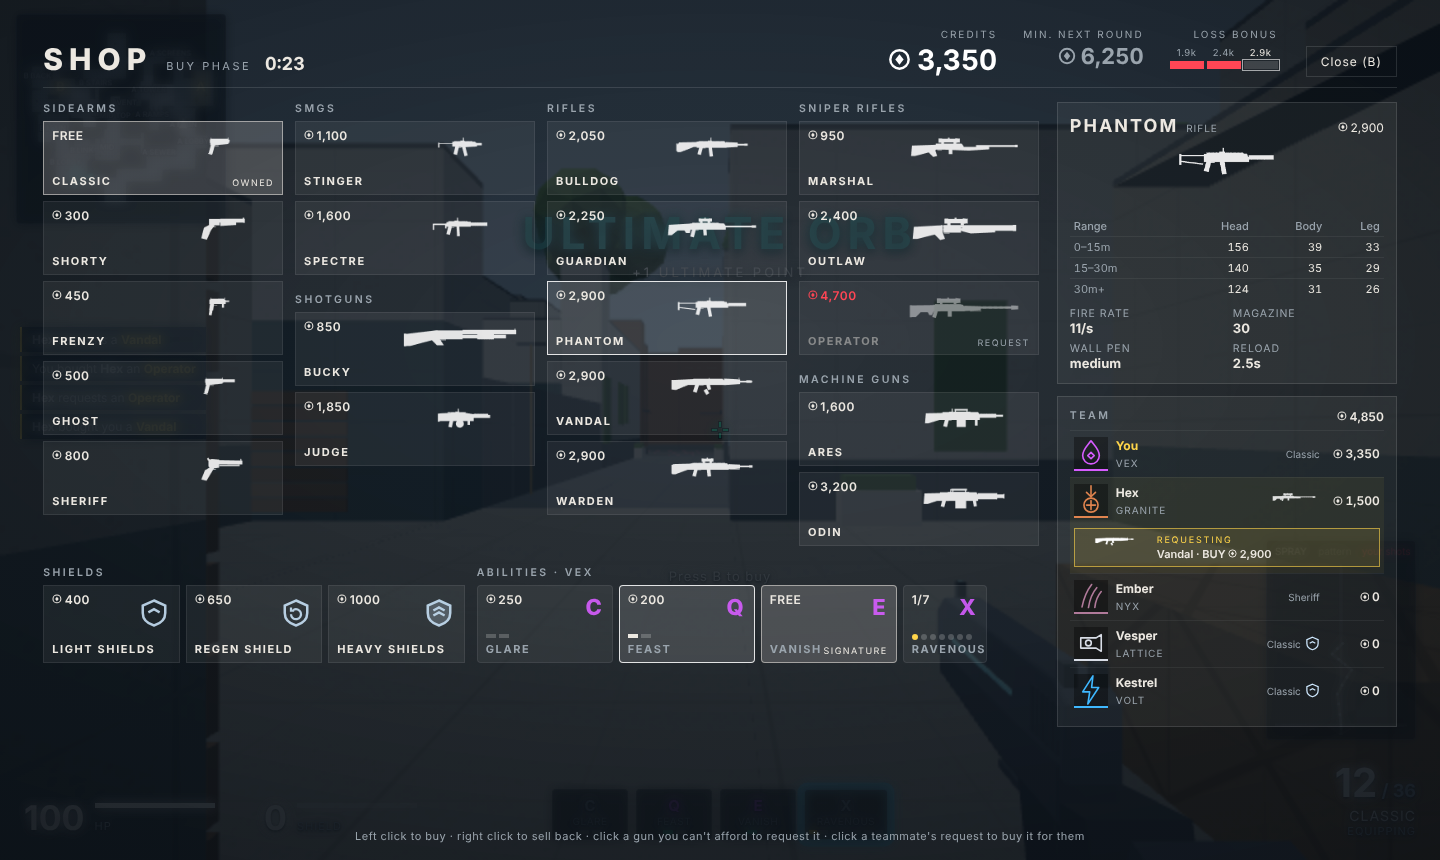
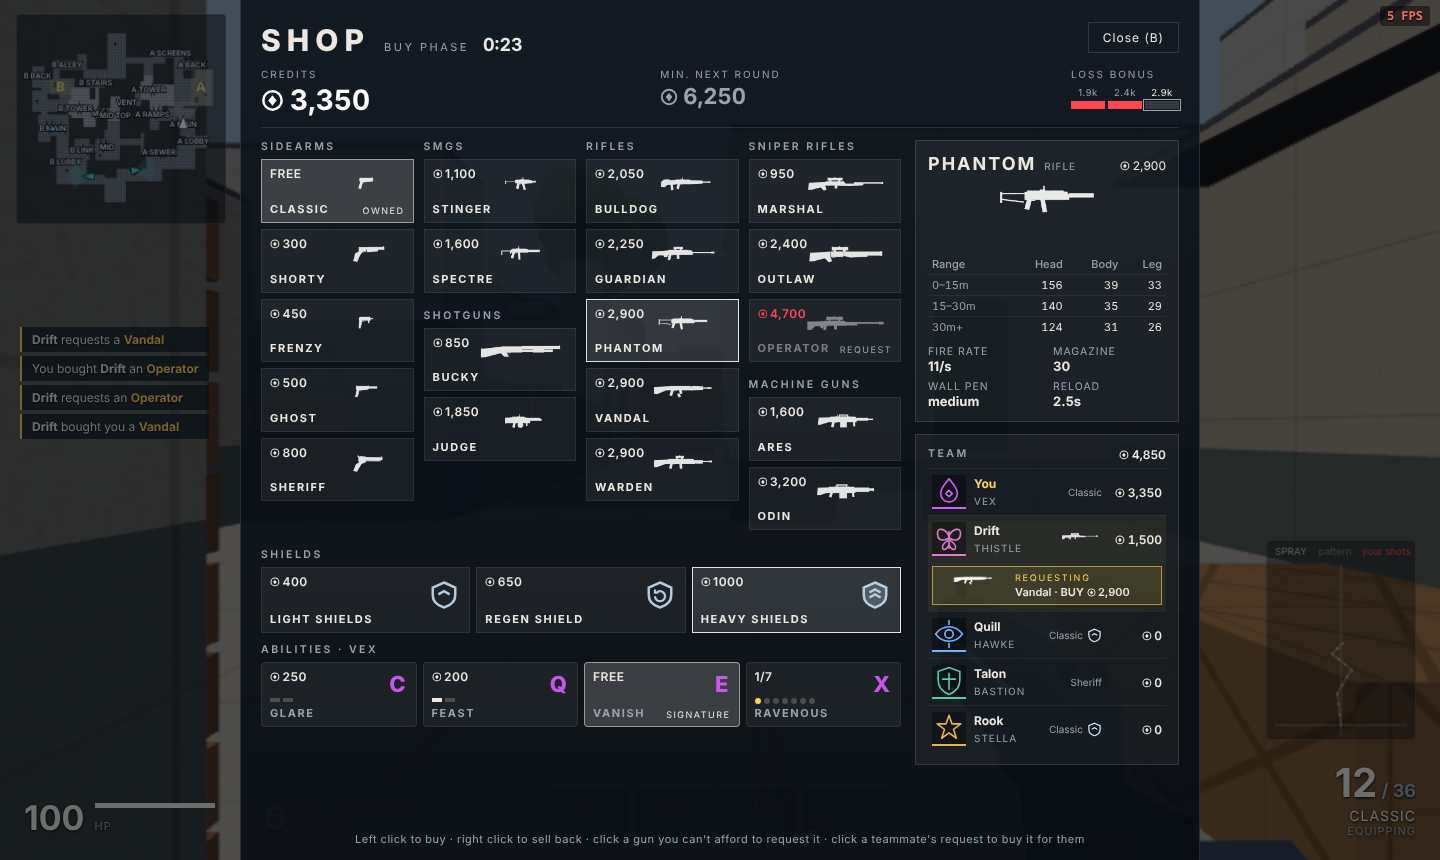
Speed up the buy menu and make it a tall column
The shop rebuilt every card (with inline data-URL gun pictures) once a second
to tick the clock, and again whenever any teammate's credits changed, and a
full-screen backdrop blur re-blurred the moving 3D view every frame.

- The clock is updated on its own; each part of the shop is only re-rendered
  when its markup changes, so a bot spending credits redraws just the team list.
- Gun pictures are short blob: URLs instead of long data: URLs.
- No backdrop blur: an opaque panel with a wide shadow dims the game instead.
- Layout: a 960px column down the middle, economy on its own row, shields and
  abilities stacked, a narrower team panel. Fixes the ultimate card being
  squeezed by the HUD's .ab.ult width.
- tools/profile-shop.mjs times the shop's per-frame work.

Claude-Session: https://claude.ai/code/session_012SZNW3m18LJA1uXUUE83U1

diff --git a/index.html b/index.html
@@ -222,16 +222,21 @@ th { color: var(--muted); font-weight: 500; }
 #rnotice b.rq { color: #ffd54a; }
 @keyframes rnin { from { opacity: 0; transform: translateX(-8px); } }
 #rhint { position: absolute; top: 66%; left: 50%; transform: translateX(-50%); font-size: 13px; letter-spacing: 1px; color: var(--text); text-shadow: 0 1px 3px #000; pointer-events: none; }
-/* Buy menu: Valorant's layout in the game's own look. */
-#shop { position: absolute; inset: 0; display: flex; flex-direction: column; gap: 14px; padding: 3.2vh 3vw 2vh; overflow: auto; pointer-events: auto;
-  background: radial-gradient(120% 90% at 50% 40%, rgba(15, 25, 35, 0.78), rgba(8, 13, 19, 0.94)); backdrop-filter: blur(6px); }
+/* Buy menu: Valorant's layout in the game's own look, as a tall column down the middle of the screen. No
+   backdrop blur: blurring the moving 3D view under the whole screen every frame is what made it lag. The
+   wide shadow dims the game on either side instead. */
+#shop { position: absolute; top: 0; bottom: 0; left: 50%; transform: translateX(-50%); width: min(960px, 100vw); box-sizing: border-box; display: flex; flex-direction: column; gap: 12px; padding: 2.6vh 20px 1.6vh; overflow: auto; pointer-events: auto;
+  background: linear-gradient(rgba(12, 19, 27, 0.95), rgba(8, 13, 19, 0.97)); box-shadow: 0 0 0 100vmax rgba(5, 8, 12, 0.55); border-left: 1px solid var(--line); border-right: 1px solid var(--line); }
 #shop .cr { width: .82em; height: .82em; margin-right: .22em; vertical-align: -0.06em; }
-.shop-top { display: flex; align-items: flex-end; gap: 28px; padding-bottom: 10px; border-bottom: 1px solid var(--line); }
+.shop-top { display: flex; flex-wrap: wrap; align-items: flex-end; gap: 10px 22px; padding-bottom: 10px; border-bottom: 1px solid var(--line); }
 .shop-title { display: flex; align-items: baseline; gap: 14px; flex: 1; }
+.shop-top > #shop-close { order: -1; align-self: flex-start; }
+.shop-top .shop-title { order: -2; }
 .shop-title h2 { margin: 0; font-size: 30px; letter-spacing: 6px; text-transform: uppercase; font-weight: 800; }
 #shop-phase { font-size: 11px; letter-spacing: 2.5px; color: var(--muted); }
 #shop-time { font-size: 18px; font-variant-numeric: tabular-nums; }
-.shop-econ { display: flex; gap: 26px; }
+.shop-econ { display: flex; gap: 26px; flex-basis: 100%; justify-content: space-between; }
+.shop-econ .econ { align-items: flex-start; }
 .econ { display: flex; flex-direction: column; align-items: flex-end; gap: 3px; }
 .econ small { font-size: 10px; letter-spacing: 2px; text-transform: uppercase; color: var(--muted); }
 .econ b { font-size: 22px; font-weight: 700; font-variant-numeric: tabular-nums; }
@@ -244,13 +249,13 @@ th { color: var(--muted); font-weight: 500; }
 #shop-loss i span { position: absolute; bottom: 11px; left: 0; right: 0; text-align: center; font-size: 9.5px; color: var(--muted); letter-spacing: .5px; }
 #shop-loss i.next span { color: var(--text); }
 #shop-close { background: none; border: 1px solid var(--line); color: var(--text); padding: 7px 14px; cursor: pointer; font: inherit; font-size: 12px; letter-spacing: 1px; }
-.shop-body { display: flex; gap: 18px; flex: 1; min-height: 0; }
-.shop-main { flex: 1; display: flex; flex-direction: column; gap: 14px; min-width: 0; }
-#shop-grid { display: grid; grid-template-columns: repeat(4, minmax(0, 1fr)); gap: 12px; }
-.scol { display: flex; flex-direction: column; gap: 12px; }
+.shop-body { display: flex; gap: 14px; flex: 1; min-height: 0; }
+.shop-main { flex: 1; display: flex; flex-direction: column; gap: 12px; min-width: 0; }
+#shop-grid { display: grid; grid-template-columns: repeat(4, minmax(0, 1fr)); gap: 10px; }
+.scol { display: flex; flex-direction: column; gap: 10px; }
 #shop h3 { margin: 0 0 6px; font-size: 10.5px; color: var(--muted); letter-spacing: 2.5px; text-transform: uppercase; font-weight: 600; }
 .scard { position: relative; display: block; width: 100%; margin-bottom: 6px; padding: 0; background: rgba(255, 255, 255, 0.06); border: 1px solid rgba(255, 255, 255, 0.08); color: var(--text); text-align: left; cursor: pointer; font: inherit; transition: background .08s, border-color .08s; }
-.scard.gun { height: 74px; }
+.scard.gun { height: clamp(54px, 7.4vh, 74px); }
 .scard .pr { position: absolute; top: 6px; left: 8px; font-size: 12px; font-weight: 600; letter-spacing: .5px; color: var(--text); }
 .scard .n { position: absolute; bottom: 6px; left: 8px; font-size: 11px; font-weight: 700; letter-spacing: 1.6px; text-transform: uppercase; }
 .scard .tag { position: absolute; bottom: 6px; right: 8px; font-size: 9px; letter-spacing: 1.5px; color: var(--muted); }
@@ -262,18 +267,19 @@ th { color: var(--muted); font-weight: 500; }
 .scard.poor img, .scard.poor .n { opacity: .45; }
 .scard.req { border-color: #ffd54a; }
 .scard.req .tag { color: #ffd54a; }
-#shop-gear { display: grid; grid-template-columns: 3fr 4fr; gap: 12px; }
+#shop-gear { display: grid; grid-template-columns: 1fr; gap: 10px; }
 .sgear > div { display: grid; grid-auto-flow: column; grid-auto-columns: 1fr; gap: 6px; }
-.scard.gear { height: 78px; margin: 0; }
+.scard.gear { height: clamp(58px, 7.6vh, 74px); margin: 0; }
 .scard.gear .shi { position: absolute; right: 10px; top: 12px; width: 30px; height: 30px; color: #cfe9ff; opacity: .85; }
 .scard.ab .key { position: absolute; right: 10px; top: 8px; font-size: 22px; font-weight: 800; color: var(--agent, var(--text)); opacity: .9; }
 .scard.ab .pips { position: absolute; left: 8px; bottom: 24px; display: flex; gap: 3px; }
 .scard.ab .pips i { width: 10px; height: 4px; background: rgba(255, 255, 255, 0.2); }
 .scard.ab .pips i.on { background: var(--text); }
+.scard.ab.ult { width: 100%; } /* not the HUD's narrow ultimate box */
 .scard.ab .pips.ult i { width: 6px; height: 6px; border-radius: 50%; }
 .scard.ab .pips.ult i.on { background: #ffd54a; }
 .scard.ab em { position: absolute; left: 8px; bottom: 24px; font-style: normal; font-size: 11px; color: var(--muted); }
-.shop-side { width: clamp(260px, 24vw, 340px); display: flex; flex-direction: column; gap: 12px; }
+.shop-side { width: 264px; flex: none; display: flex; flex-direction: column; gap: 12px; }
 #shop-detail { min-height: 180px; padding: 12px; background: rgba(255, 255, 255, 0.05); border: 1px solid var(--line); font-size: 12px; }
 #shop-detail .dh { display: flex; align-items: baseline; gap: 8px; }
 #shop-detail .dh b { font-size: 18px; letter-spacing: 2px; text-transform: uppercase; }
@@ -294,7 +300,7 @@ th { color: var(--muted); font-weight: 500; }
 .tport svg { width: 100%; height: 100%; }
 .tinfo { min-width: 0; } .tinfo b { display: block; font-size: 12px; overflow: hidden; text-overflow: ellipsis; white-space: nowrap; }
 .tinfo small { font-size: 10px; color: var(--muted); letter-spacing: 1px; text-transform: uppercase; }
-.tload { display: flex; align-items: center; gap: 4px; } .tload img { height: 18px; width: 58px; object-fit: contain; object-position: right; opacity: .85; }
+.tload { display: flex; align-items: center; gap: 4px; } .tload img { height: 16px; width: 44px; object-fit: contain; object-position: right; opacity: .85; }
 .tload .none { font-size: 10px; color: var(--muted); } .tload .tsh svg { width: 15px; height: 15px; color: #cfe9ff; display: block; }
 .tcr { font-size: 12px; font-weight: 600; font-variant-numeric: tabular-nums; min-width: 52px; text-align: right; }
 .scard.treq { grid-column: 1 / -1; display: grid; grid-template-columns: auto 1fr; align-items: center; gap: 2px 10px; padding: 5px 8px; margin: 2px 0 0; border-color: rgba(255, 213, 74, 0.6); background: rgba(255, 213, 74, 0.1); }
@@ -303,7 +309,7 @@ th { color: var(--muted); font-weight: 500; }
 .scard.treq .rp { font-size: 11px; font-weight: 600; }
 .scard.treq.poor { opacity: .55; } .scard.treq.mine { border-style: dashed; }
 #shop-note { margin: 0; color: var(--muted); font-size: 11px; letter-spacing: .5px; text-align: center; }
-@media (max-width: 1000px) { .shop-body { flex-direction: column; } .shop-side { width: auto; } #shop-gear { grid-template-columns: 1fr; } }
+@media (max-width: 760px) { .shop-body { flex-direction: column; } .shop-side { width: auto; } }
 .modes { display: grid; grid-template-columns: 1fr 1fr; gap: 10px; margin: 4px 0 14px; }
 .mode { padding: 12px 14px; text-align: left; background: rgba(255, 255, 255, 0.05); border: 1px solid var(--line); color: var(--text); cursor: pointer; font: inherit; }
 .mode b { display: block; font-size: 15px; letter-spacing: 1px; text-transform: uppercase; }

diff --git a/js/roundhud.js b/js/roundhud.js
@@ -28,6 +28,7 @@ export class RoundHud {
     this.cache = {};
     this.bannerUntil = 0;
     this.shopOpen = false;
+    this.shopHtml = {};
     this.spectating = null;
     const g = game;
     g.on('round', ({ mode }) => this.banner(`<b>ROUND ${mode.round}</b><small>${mode.round === ROUND.half + 1 ? 'SIDES SWAPPED · ' : ''}${SIDE[mode.sideOf(0)]} · BUY PHASE</small>`, 3));
@@ -156,6 +157,7 @@ export class RoundHud {
     this.shopOpen = open;
     $('shop').hidden = !open;
     this.shopKey = '';
+    this.shopHtml = {};
     this.hovered = null;
     if (open) { this.icons = gunIcons(Object.keys(WEAPONS).filter(id => WEAPONS[id].cost !== undefined && !WEAPONS[id].melee && !WEAPONS[id].ability)); this.renderShop(); }
   }
@@ -168,7 +170,9 @@ export class RoundHud {
     const team = g.combatants.filter(c => c.team === p.team);
     const myReq = m.requests?.get(p)?.id || null;
     const teamKey = team.map(c => [c.credits, this.primaryOf(c), this.shieldOf(c), m.requests?.get(c)?.id || ''].join(':')).join(',');
-    const key = [p.credits, p.inv.primary?.def.id, p.inv.secondary?.def.id, p.armor > 0 && p.armorKind, p.kit && JSON.stringify(p.kit.charges), p.kit?.ultPoints, canBuy, bought.length, Math.ceil(m.phaseEnd - g.time), teamKey, m.lossStreak?.join()].join('|');
+    // The clock ticks on its own: rebuilding the cards every second just for it made the menu stutter.
+    this.put('shop-time', canBuy ? clock(m.phaseEnd - g.time) : '', true);
+    const key = [p.credits, p.inv.primary?.def.id, p.inv.secondary?.def.id, p.armor > 0 && p.armorKind, p.kit && JSON.stringify(p.kit.charges), p.kit?.ultPoints, canBuy, bought.length, teamKey, m.lossStreak?.join()].join('|');
     if (key === this.shopKey) return;
     this.shopKey = key;
     const owned = (id) => p.inv.primary?.def.id === id || p.inv.secondary?.def.id === id;
@@ -202,15 +206,14 @@ export class RoundHud {
     }
     // Economy strip: credits, the least you'll have next round, and the loss bonus ladder.
     const streak = m.lossStreak?.[p.team] || 0, min = m.minNextRound?.(p);
-    $('shop-credits').innerHTML = `${CR}${p.credits.toLocaleString()}`;
-    $('shop-min').innerHTML = min == null ? '—' : `${CR}${min.toLocaleString()}`;
-    $('shop-loss').innerHTML = ECON.loss.map((v, i) => `<i class="${i < streak ? 'on' : ''}${i === Math.min(2, streak) ? ' next' : ''}" title="${v}"><span>${(v / 1000).toFixed(1)}k</span></i>`).join('');
-    $('shop-time').textContent = canBuy ? clock(m.phaseEnd - g.time) : '';
-    $('shop-phase').textContent = canBuy ? 'BUY PHASE' : 'BUY PHASE OVER';
-    $('shop-note').textContent = canBuy ? 'Left click to buy · right click to sell back · click a gun you can\'t afford to request it · click a teammate\'s request to buy it for them' : 'The buy phase is over';
+    this.put('shop-credits', `${CR}${p.credits.toLocaleString()}`);
+    this.put('shop-min', min == null ? '—' : `${CR}${min.toLocaleString()}`);
+    this.put('shop-loss', ECON.loss.map((v, i) => `<i class="${i < streak ? 'on' : ''}${i === Math.min(2, streak) ? ' next' : ''}" title="${v}"><span>${(v / 1000).toFixed(1)}k</span></i>`).join(''));
+    this.put('shop-phase', canBuy ? 'BUY PHASE' : 'BUY PHASE OVER', true);
+    this.put('shop-note', canBuy ? 'Left click to buy · right click to sell back · click a gun you can\'t afford to request it · click a teammate\'s request to buy it for them' : 'The buy phase is over', true);
     if (p.kit) $('shop').style.setProperty('--agent', p.kit.agent.color);
-    $('shop-grid').innerHTML = grid;
-    $('shop-gear').innerHTML = shields + abil;
+    // Only the parts whose markup changed are rebuilt: a bot spending credits redraws the team list, not the guns.
+    const rebuilt = this.put('shop-grid', grid) | this.put('shop-gear', shields + abil);
     // Team: you first, then teammates by credits.
     const total = team.reduce((a, c) => a + (c.credits || 0), 0);
     const rows = [p, ...team.filter(c => c !== p).sort((a, b) => b.credits - a.credits)].map(c => {
@@ -229,8 +232,17 @@ export class RoundHud {
         <div class="tload">${w ? icon(w) : `<span class="none">${c.inv.secondary ? esc(c.inv.secondary.def.name) : ''}</span>`}${sh ? `<span class="tsh">${SHIELD_ICON[sh]}</span>` : ''}</div>
         <div class="tcr">${CR}${(c.credits || 0).toLocaleString()}</div>${req}</div>`;
     }).join('');
-    $('shop-team').innerHTML = `<h3>Team <span>${CR}${total.toLocaleString()}</span></h3>${rows}`;
-    if (this.hovered) this.hover(this.hovered.dataset.item, true);
+    const teamRebuilt = this.put('shop-team', `<h3>Team <span>${CR}${total.toLocaleString()}</span></h3>${rows}`);
+    if (this.hovered && (rebuilt || teamRebuilt)) this.hover(this.hovered.dataset.item, true);
+  }
+
+  // Sets an element's markup (or text) only when it differs from what this shop last put there. Returns
+  // whether it changed. toggleShop clears the record, so opening the shop always draws everything.
+  put(id, html, text = false) {
+    if (this.shopHtml[id] === html) return false;
+    this.shopHtml[id] = html;
+    if (text) $(id).textContent = html; else $(id).innerHTML = html;
+    return true;
   }
 
   // A teammate's primary and shield, from their inventory (the host and offline) or the host's buy-phase

diff --git a/js/gunicons.js b/js/gunicons.js
@@ -1,5 +1,5 @@
 // Flat white side-on silhouettes of the guns for the buy menu, rendered once from the game's own models
-// (models.js) into PNG data URLs. Muzzle to the right, trimmed to the gun, on a transparent background.
+// (models.js) into PNG blob URLs. Muzzle to the right, trimmed to the gun, on a transparent background.
 import * as THREE from '../vendor/three.module.min.js';
 import { gunModel } from './models.js';
 
@@ -36,10 +36,19 @@ export function gunIcons(ids) {
     cam.updateProjectionMatrix();
     r.clear();
     r.render(scene, cam);
-    cache[id] = r.domElement.toDataURL('image/png');
+    cache[id] = blobUrl(r.domElement.toDataURL('image/png'));
     scene.remove(pivot);
   }
   r.dispose();
   r.forceContextLoss?.();
   return cache;
+}
+
+// A short blob: URL for the PNG instead of the long data: URL, so the shop's markup stays small to parse
+// and every card showing the same gun shares one decoded image.
+function blobUrl(dataUrl) {
+  const bin = atob(dataUrl.slice(dataUrl.indexOf(',') + 1));
+  const bytes = new Uint8Array(bin.length);
+  for (let i = 0; i < bin.length; i++) bytes[i] = bin.charCodeAt(i);
+  return URL.createObjectURL(new Blob([bytes], { type: 'image/png' }));
 }

diff --git a/README.md b/README.md
@@ -22,6 +22,7 @@ stop shooting when their target ducks behind a wall, and still shoot when they c
 `node tools/check-buy-drop.mjs` checks that buying over a carried-over gun drops it and buying over one bought this round sells it back.
 `node tools/check-economy.mjs [--offline] [--shots <dir>]` checks the 5v5 buy menu (credits, next-round minimum, loss bonus,
 team credits), weapon requests offline and online, and ultimate orbs; `--shots` saves pictures of the shop and an orb.
+`node tools/profile-shop.mjs [seconds]` times the buy menu's own work per frame with it open and closed, and counts how often it redraws.
 `node tools/check-world.mjs` checks that the collision grid answers exactly like testing every box.
 `node tools/profile.mjs [seconds] [--shadows on] [--scale 1] [--cpu] [--spikes] [--gpu]` plays a 5v5 on Divide headless and reports
 the cost of a tick and a frame, draw calls and garbage (`--gpu` waits for each frame to finish drawing, so the render time includes the pixels). `node tools/check-net-smooth.mjs` measures how smoothly another player moves
